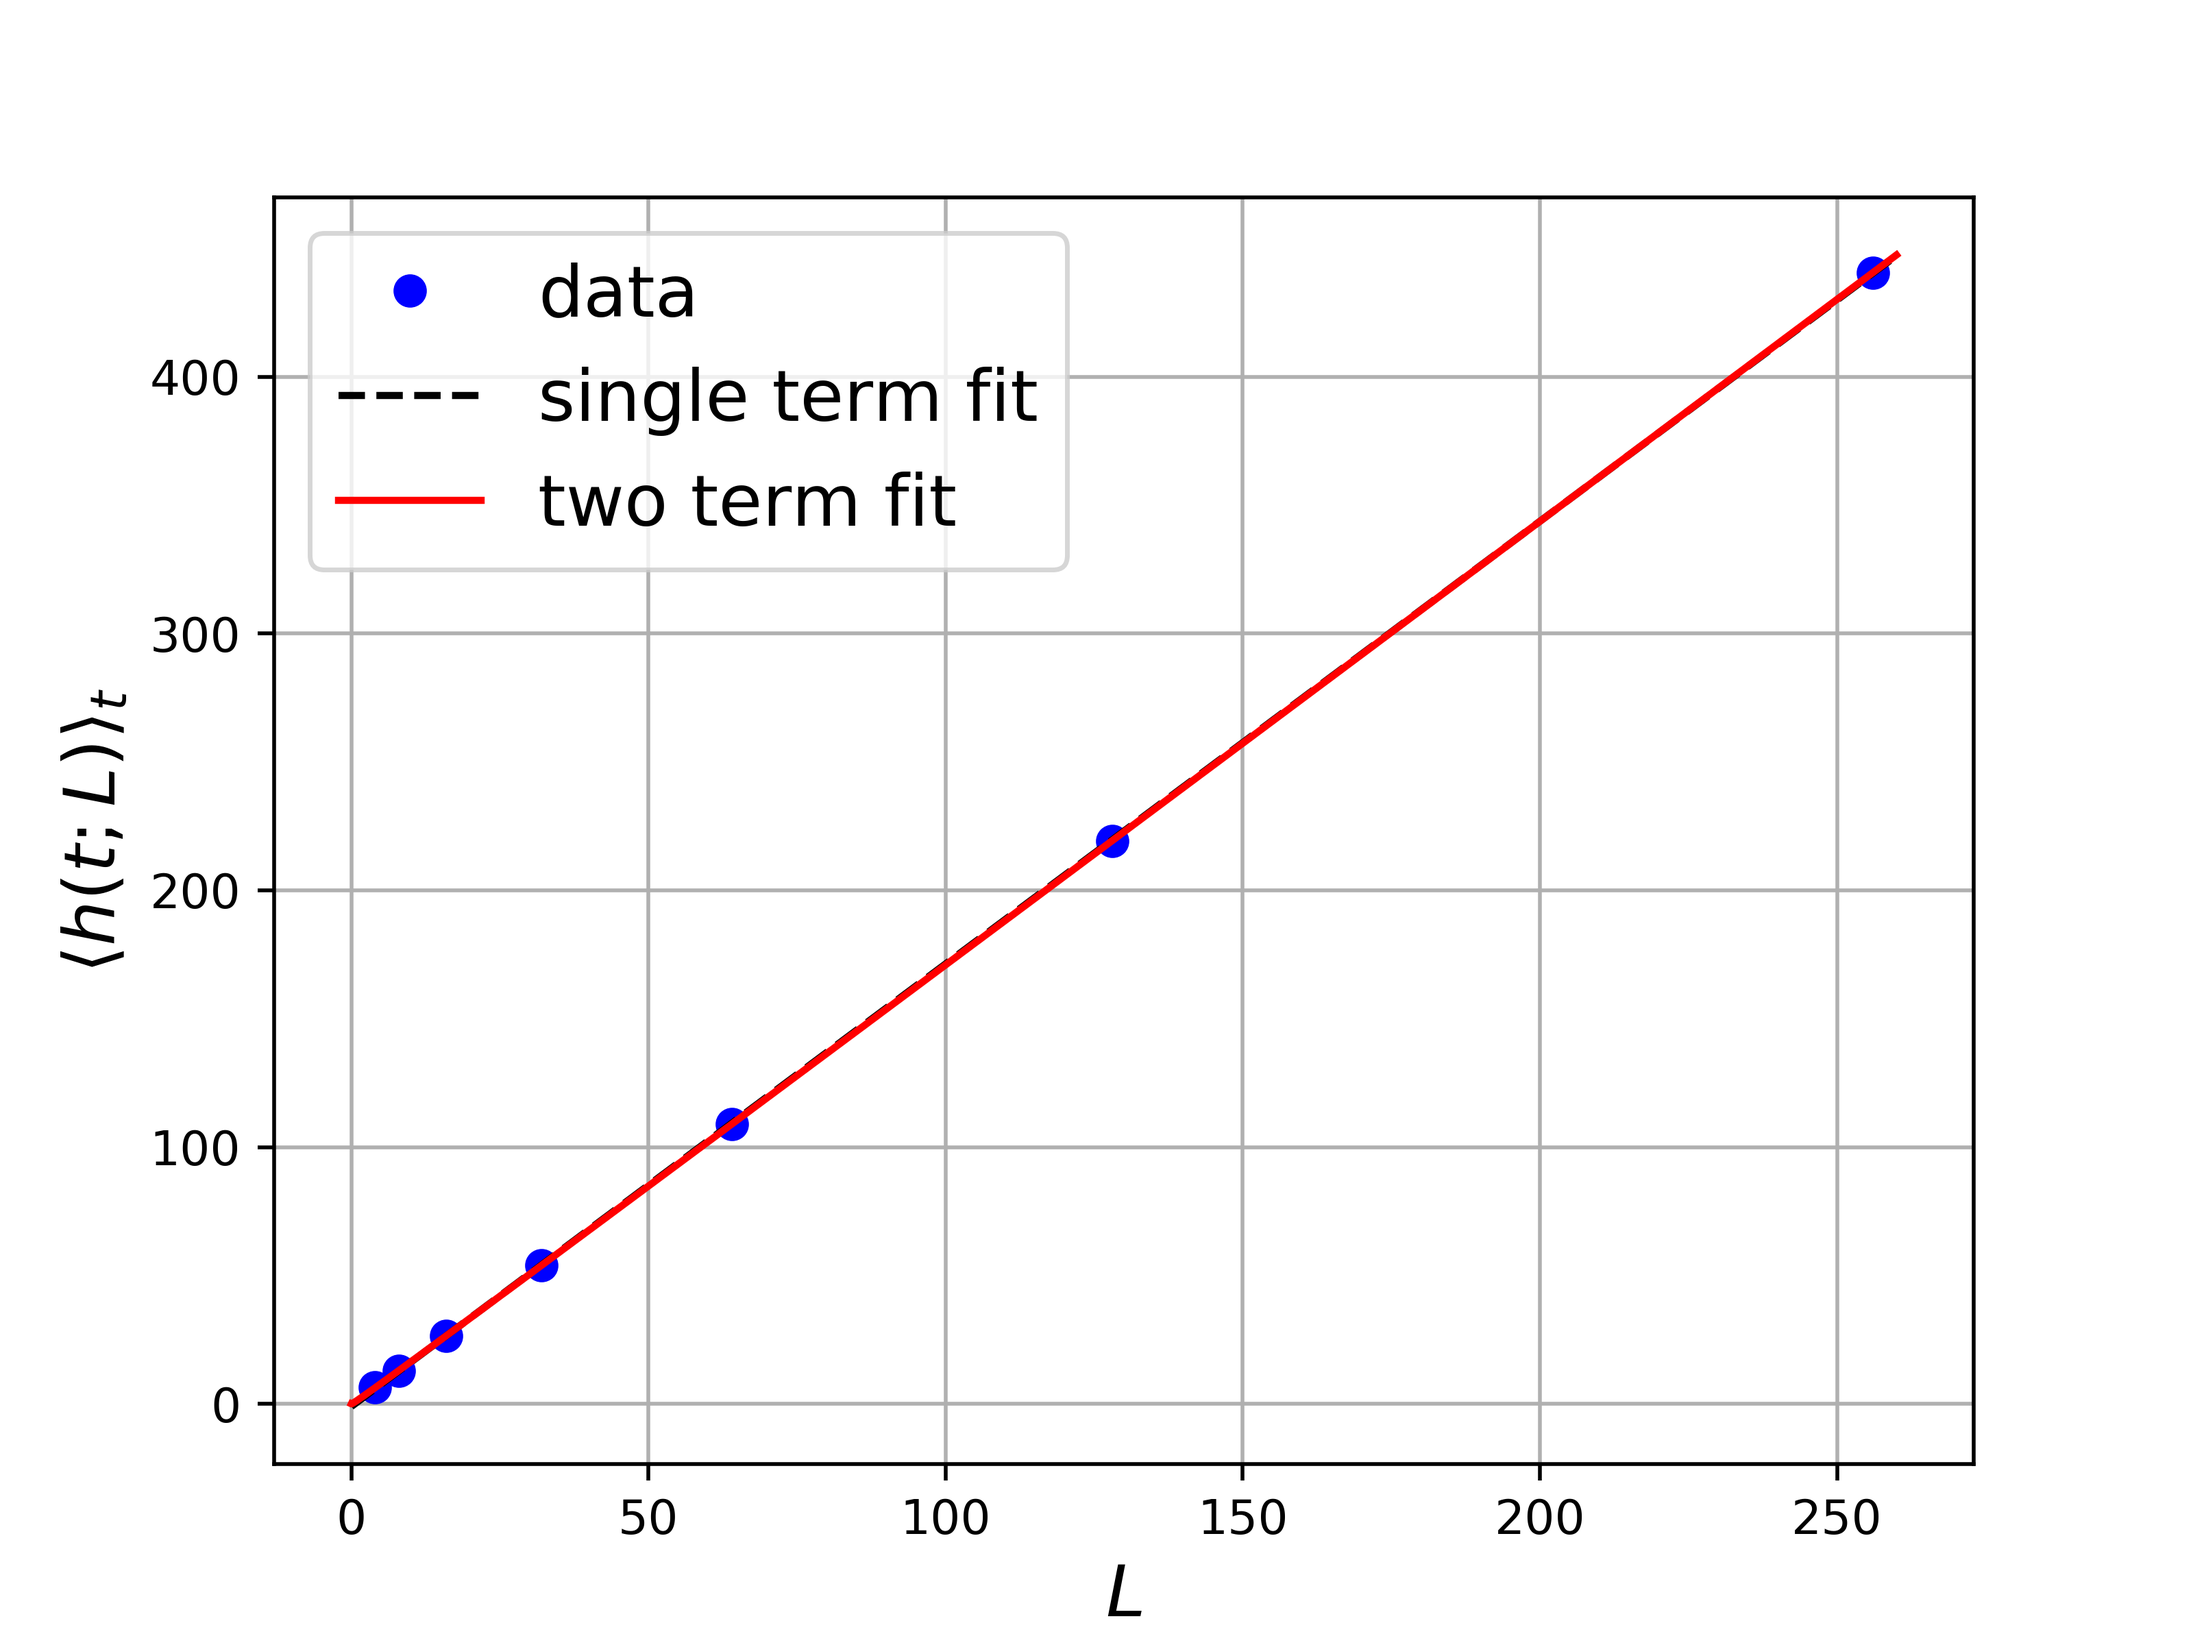
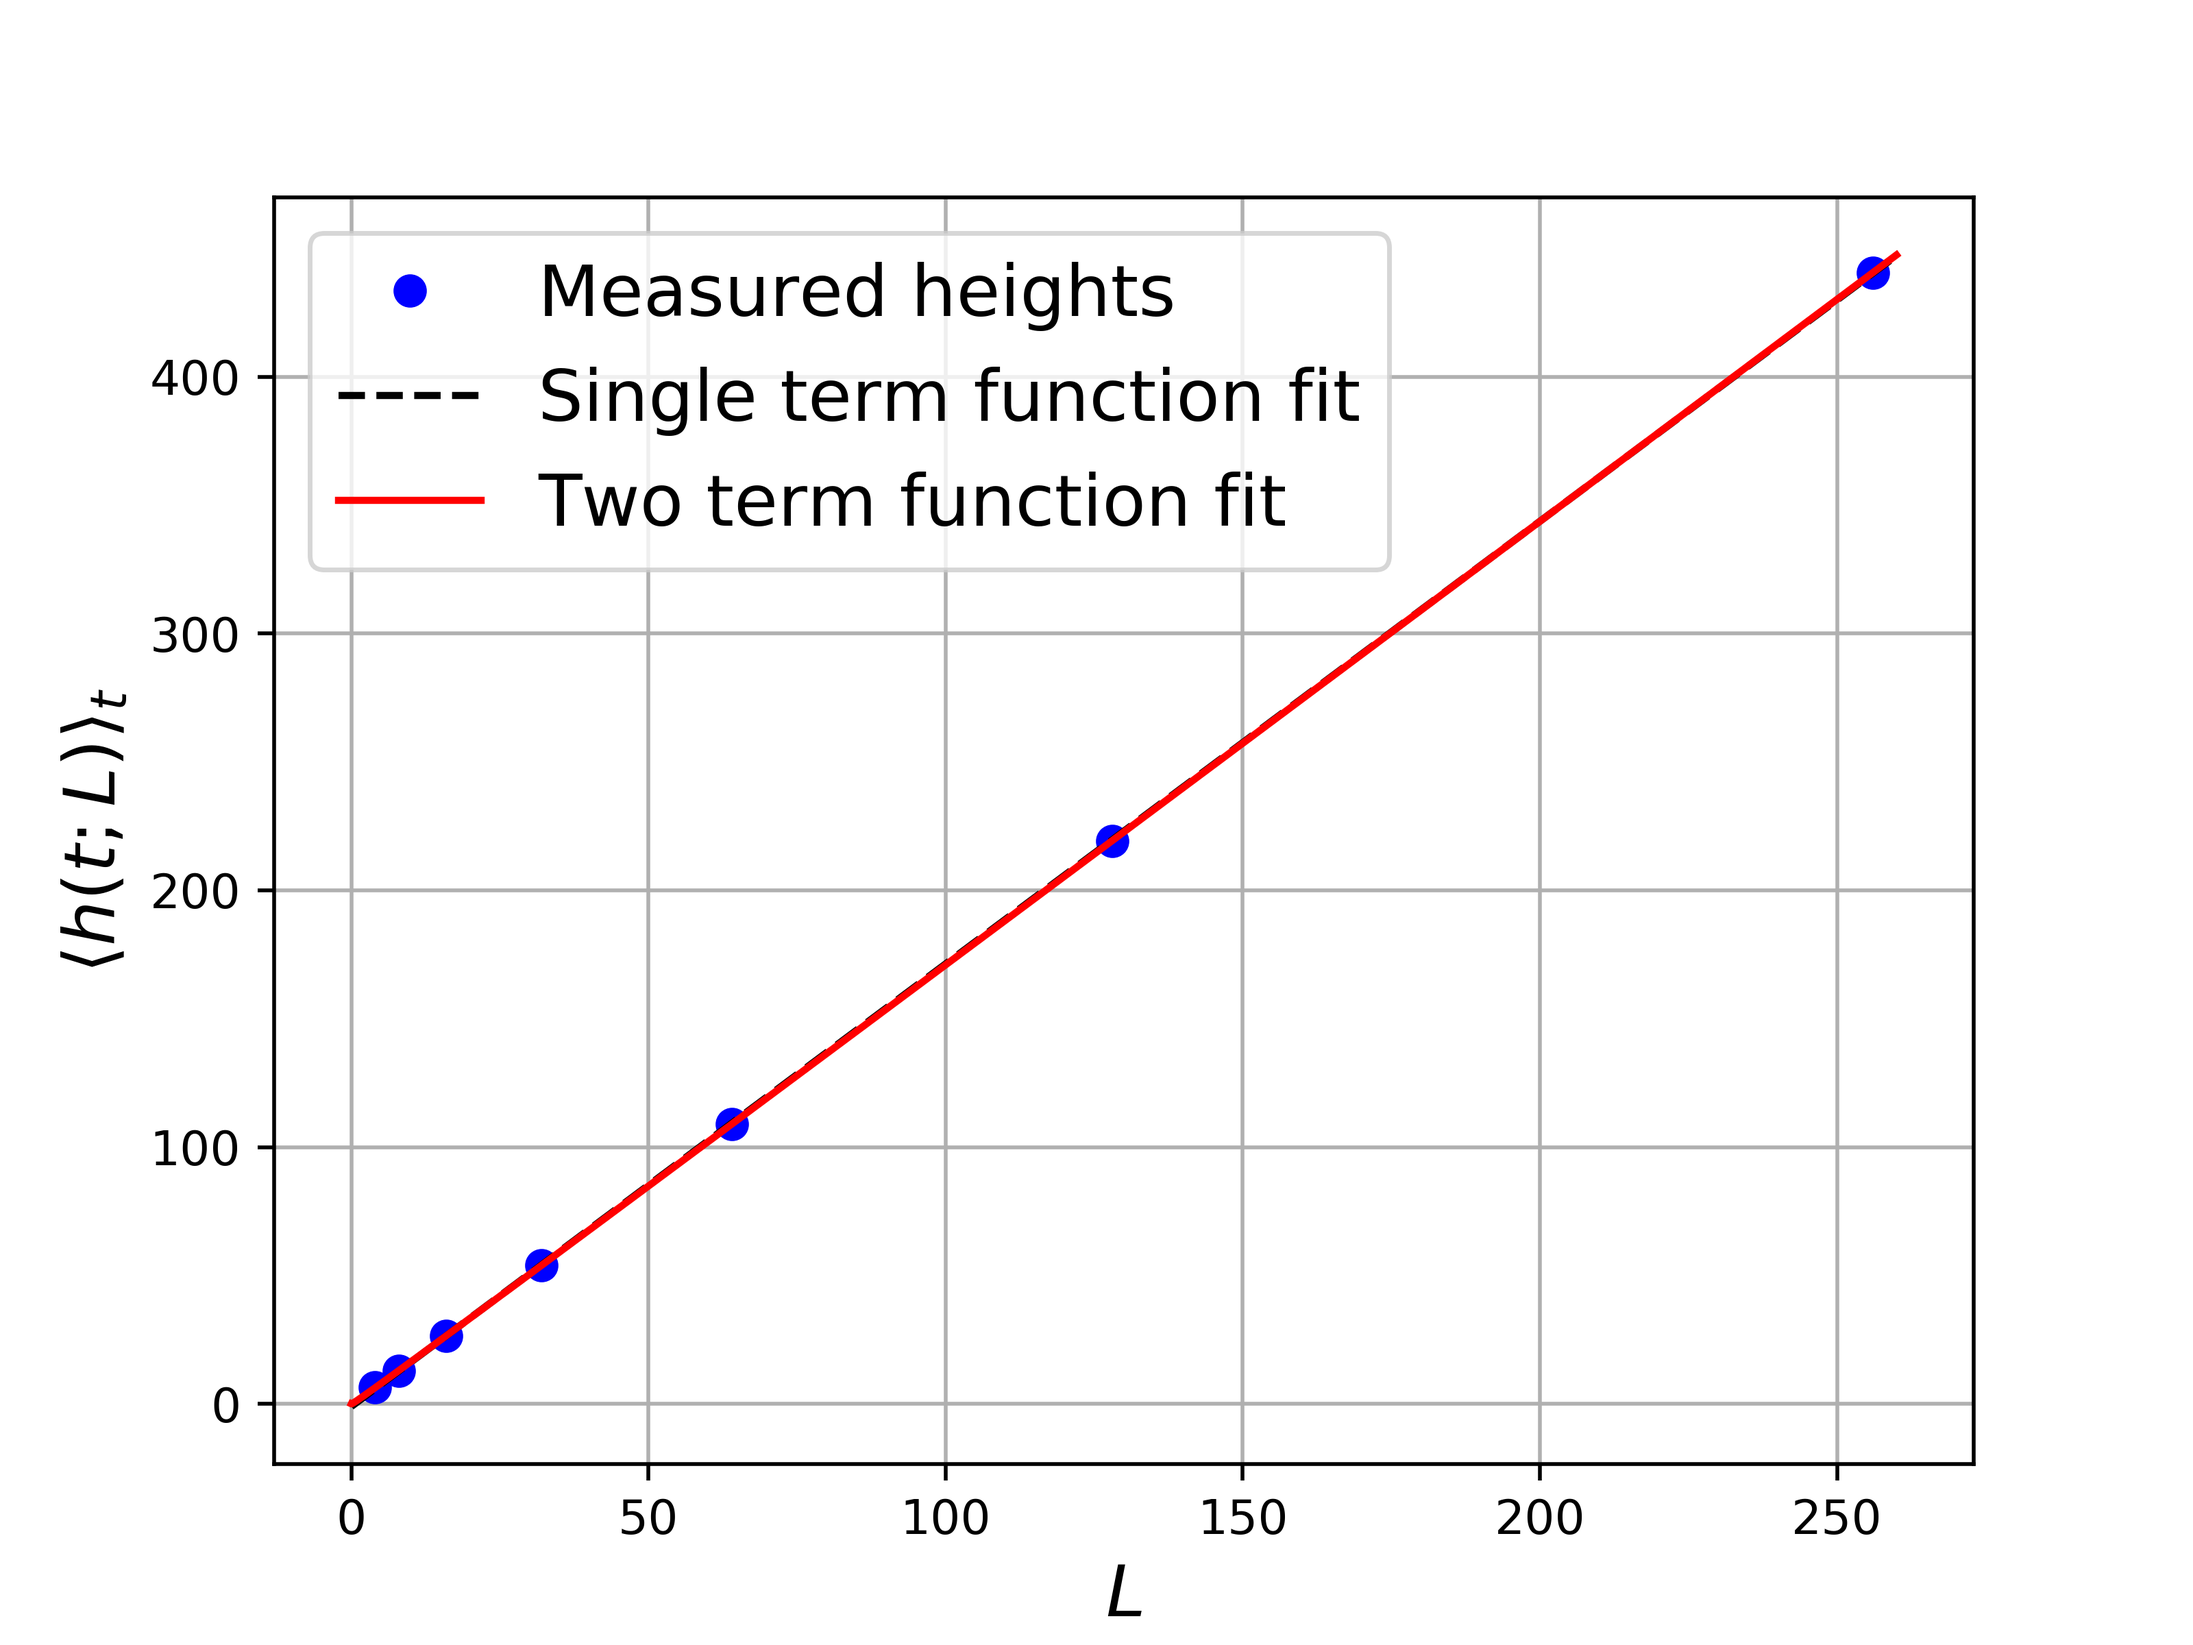
Finalfinal

Changed region(s): [[0.25, 0.1562, 0.625, 0.3438], [0.5625, 0.125, 0.5938, 0.1562]]

diff --git a/ComplexProject.py b/ComplexProject.py
@@ -229,13 +229,13 @@ print('The slope is ', popt[1], ' pm ', np.sqrt(pcov[0][0]))
 print('The intercept is ', popt[0], ' pm ', np.sqrt(pcov[1][1]))
 
 x = np.linspace(4,260,10000)
-plt.plot(Systems, avg, 'bo', label = 'data')
-plt.plot(x, Fit(x,*popt), '-r', label = 'fit')
+plt.plot(Systems, avg, 'bo', label = 'Measured times')
+plt.plot(x, Fit(x,*popt), '-r', label = '$aL^{b}$')
 plt.xlabel('$L$', fontsize=15)
 plt.ylabel(r'$\langle t_{c}(L) \rangle$', fontsize=15)
 plt.yscale('log')
 plt.xscale('log')
-plt.legend(fontsize=10)
+plt.legend(fontsize=15)
 plt.grid()
 plt.savefig('/home/adam/Desktop/work/3rd Year/Complexity&Networks/Oslo model project/2b',dpi=500)
 
@@ -360,9 +360,9 @@ x = np.linspace(0,260,10000)
 print('a0 is ', popt[0], ' pm ',  np.sqrt(pcov[0][0]))
 print('a1 is ', popt[1], ' pm ',  np.sqrt(pcov[1][1]))
 print('w0 is ', popt[2], ' pm ',  np.sqrt(pcov[2][2]))
-plt.plot(Systems, heights, 'bo', label = 'data')
-plt.plot(x, Lin(x,*poptl), '--k', label = 'single term fit')
-plt.plot(x, Corr(x,*popt), '-r', label = 'two term fit')
+plt.plot(Systems, heights, 'bo', label = 'Measured heights')
+plt.plot(x, Lin(x,*poptl), '--k', label = 'Single term function fit')
+plt.plot(x, Corr(x,*popt), '-r', label = 'Two term function fit')
 plt.plot
 #plt.plot(Systems, Corr2(Systems,*popt2), '-g', label = 'three term fit')
 plt.xlabel('$L$', fontsize = 15)
@@ -392,14 +392,14 @@ def Fit(L, a, b):
 popt, pcov = cf(Fit, Systems, stdevs)
 print('Slope is ', popt[1], ' pm ', np.sqrt(pcov[1][1]))
 print('Intercept is ', popt[0], ' pm ', np.sqrt(pcov[0][0]))
-plt.plot(Systems, stdevs, 'bo', label = 'data')
-plt.plot(Systems, Fit(Systems, *popt), '-r', label = 'fit')
+plt.plot(Systems, stdevs, 'bo', label = 'Measured deviations')
+plt.plot(Systems, Fit(Systems, *popt), '-r', label = '$mL^{b}$')
 plt.xscale('log')
 plt.yscale('log')
 plt.xlabel('$L$', fontsize = 15)
 plt.ylabel(r'$\sigma_{h}(L)$', fontsize = 15)
 plt.grid(which = 'both')
-plt.legend(fontsize = 10)
+plt.legend(fontsize = 15)
 plt.show()
 plt.savefig('/home/adam/Desktop/work/3rd Year/Complexity&Networks/Oslo model project/2f', dpi=500)
 
@@ -469,7 +469,7 @@ x = np.linspace(-4,6,1000)
 plt.plot(x,stat.norm.pdf(x,0,1), '--k', label = 'Normal distribution')
 plt.legend(fontsize = 10)
 plt.grid()
-plt.xlabel(r'$(h - \langle h \rangle ) / \sigma$', fontsize = 15)
+plt.xlabel(r'$(h - \langle h \rangle ) / \sigma_{h}$', fontsize = 15)
 plt.ylabel(r'$\sigma_h P(h,L)$', fontsize = 15)
 plt.savefig('/home/adam/Desktop/work/3rd Year/Complexity&Networks/Oslo model project/2gb', dpi=500)
 
@@ -553,24 +553,24 @@ x32, y32 = logbin(aval_size_data['L32'])
 x64, y64 = logbin(aval_size_data['L64'])
 x128, y128 = logbin(aval_size_data['L128'])
 x256, y256 = logbin(aval_size_data['L256'])
-plt.plot(x4,y4, '-', label='L4')
-plt.plot(x8,y8, '-',label='L8')
-plt.plot(x16,y16, '-', label='L16')
-plt.plot(x32,y32, '-',label='L32')
-plt.plot(x64,y64, '-',label='L64')
-plt.plot(x128,y128, '-',label='L128')
-plt.plot(x256,y256, '-',label='L256')
+plt.plot(x4,y4, '-', label='L=4')
+plt.plot(x8,y8, '-',label='L=8')
+plt.plot(x16,y16, '-', label='L=16')
+plt.plot(x32,y32, '-',label='L=32')
+plt.plot(x64,y64, '-',label='L=64')
+plt.plot(x128,y128, '-',label='L=128')
+plt.plot(x256,y256, '-',label='L=256')
 plt.xscale('log')
 plt.yscale('log')
 plt.grid()
-plt.legend(fontsize = 10)
+plt.legend(fontsize = 13)
 plt.xlabel('s', fontsize = 15)
 plt.ylabel(r'$\tilde{P}_{N}(s;L)$', fontsize = 15)
 plt.savefig('/home/adam/Desktop/work/3rd Year/Complexity&Networks/Oslo model project/3a', dpi=500)
 
 #%%
 '''
-3abD  log data and assign a linear fit better
+3abD 
 '''
 max_aval = []
 for i in Systems:
@@ -588,14 +588,14 @@ MAL = np.log(max_aval)
 popD, pcovD = cf(Dee, SL, MAL, p0 = np.array([2.20,0.412]))
 print('Slope is ', popD[0], 'pm',  np.sqrt(pcovD[0][0]))
 print('Intercept is ', popD[1], 'pm',  np.sqrt(pcovD[1][1]))
-plt.plot(SL, MAL, 'bo', label = 'data')
-plt.plot(x, Dee(x, *popD), '-r', label = 'fit')
+plt.plot(SL, MAL, 'bo', label = 'Measured data')
+plt.plot(x, Dee(x, *popD), '-r', label = 'Fit of a power law')
 #plt.yscale('log')
 #plt.xscale('log')
 plt.grid(which = 'both')
 plt.xlabel('$\log{L}$', fontsize = 15)
 plt.ylabel(r'$\log{s_{max}}$', fontsize = 15)
-plt.legend(fontsize = 10)
+plt.legend(fontsize = 15)
 plt.show()
 plt.savefig('/home/adam/Desktop/work/3rd Year/Complexity&Networks/Oslo model project/3abD', dpi=500)
 
@@ -619,13 +619,14 @@ y = y256[i:k]
 
 p0 = np.array([0.7,1.55])
 popT, pcovT = cf(Tau, x, y, p0)
-print('tau', popT, np.sqrt(pcovT))
-plt.plot(x256,y256, 'kx',label='L256')
-plt.plot(x, Tau(x, *popT), '-r', label='fit')
+print('Tau is ', popT[1], 'pm',  np.sqrt(pcovD[1][1]))
+print('a is ', popT[0], 'pm',  np.sqrt(pcovD[0][0]))
+plt.plot(x256,y256, 'kx',label='L=256')
+plt.plot(x, Tau(x, *popT), '-r', label='Fit of a power law')
 plt.xscale('log')
 plt.yscale('log')
 plt.grid()
-plt.legend(fontsize = 10)
+plt.legend(fontsize = 15)
 plt.xlabel('s', fontsize = 15)
 plt.ylabel(r'$\tilde{P}_{N}(s;L)$', fontsize = 15)
 plt.savefig('/home/adam/Desktop/work/3rd Year/Complexity&Networks/Oslo model project/3abT', dpi=500)
@@ -644,7 +645,7 @@ plt.plot(x256/(Systems[6]**popD[0]),y256*(x256**popT[1]), '-',label='L256')
 plt.xscale('log')
 plt.yscale('log')
 plt.grid()
-plt.legend(fontsize = 10)
+plt.legend(fontsize = 13)
 plt.xlabel('$s/L^{D}$', fontsize = 15)
 plt.ylabel(r'$s^{\tau_{s}}\tilde{P}_{N}(s;L)$', fontsize = 15)
 plt.savefig('/home/adam/Desktop/work/3rd Year/Complexity&Networks/Oslo model project/3ab', dpi=500)
@@ -680,7 +681,7 @@ popt = [[]for x in range(no_moments)]
 pcov = [[]for x in range(no_moments)]   
 for i in range(no_moments):
     popt[i], pcov[i] = cf(Kfit, Systems, moments[i], p0 = np.array([2.2*(i+0.5),1]))
-    print('K={}'.format(i+1) , popt[i], pcov[i])
+    print('K={}'.format(i+1) , popt[i], np.sqrt(pcov[i][0]))
 
 for j in range(no_moments):    
     plt.plot(Systems, moments[j], 'o', label = '$k={}$'.format(j+1))
@@ -714,10 +715,10 @@ opt, cov = cf(Line, x, y)
 print('The estimate for D is ', opt[0], ' pm ',  np.sqrt(cov[0][0]))
 print('The estimate for tau is ', 1-(opt[1]/opt[0]), ' pm ',  np.sqrt(cov[0][0])+np.sqrt(cov[1][1]))
  
-plt.plot(x,y, 'o', label = 'data')
-plt.plot(x,Line(x,*opt), '--', label = 'fit')
+plt.plot(x,y, 'o', label = 'Calculated slopes')
+plt.plot(x,Line(x,*opt), '--', label = 'Linear fit')
 plt.grid()
-plt.legend()
+plt.legend(fontsize = 15)
 plt.xlabel('$k$', fontsize = 15)
 plt.ylabel(r'$D(1+k-\tau_{s})$', fontsize = 15)
 plt.savefig('/home/adam/Desktop/work/3rd Year/Complexity&Networks/Oslo model project/3bb',dpi=500)
